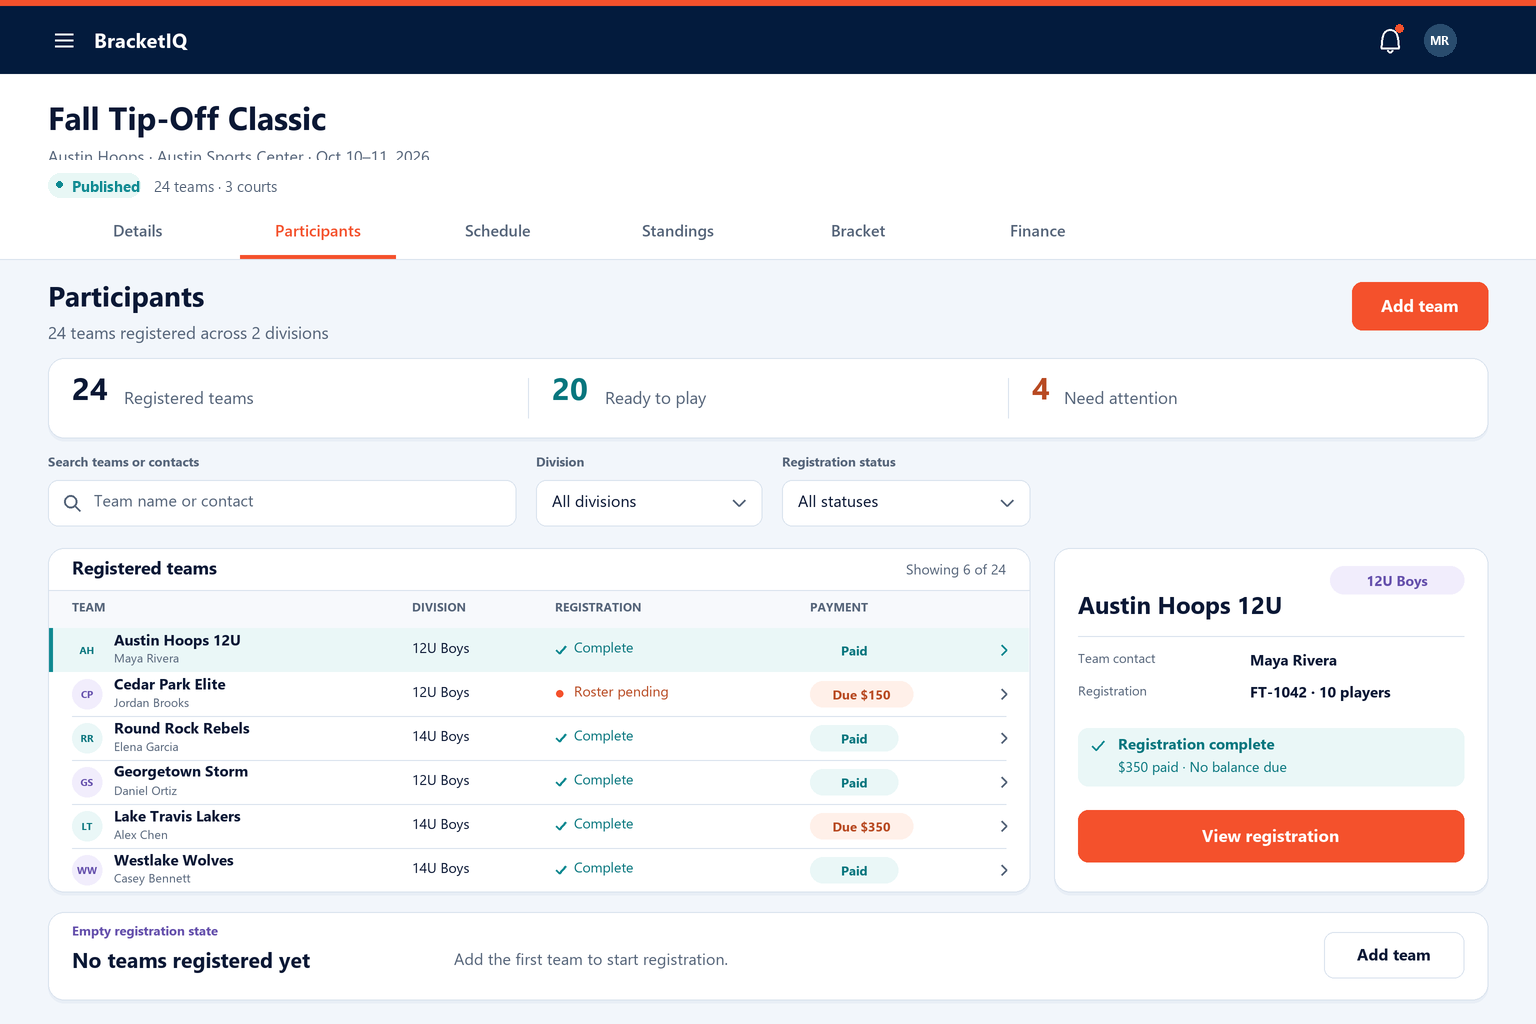
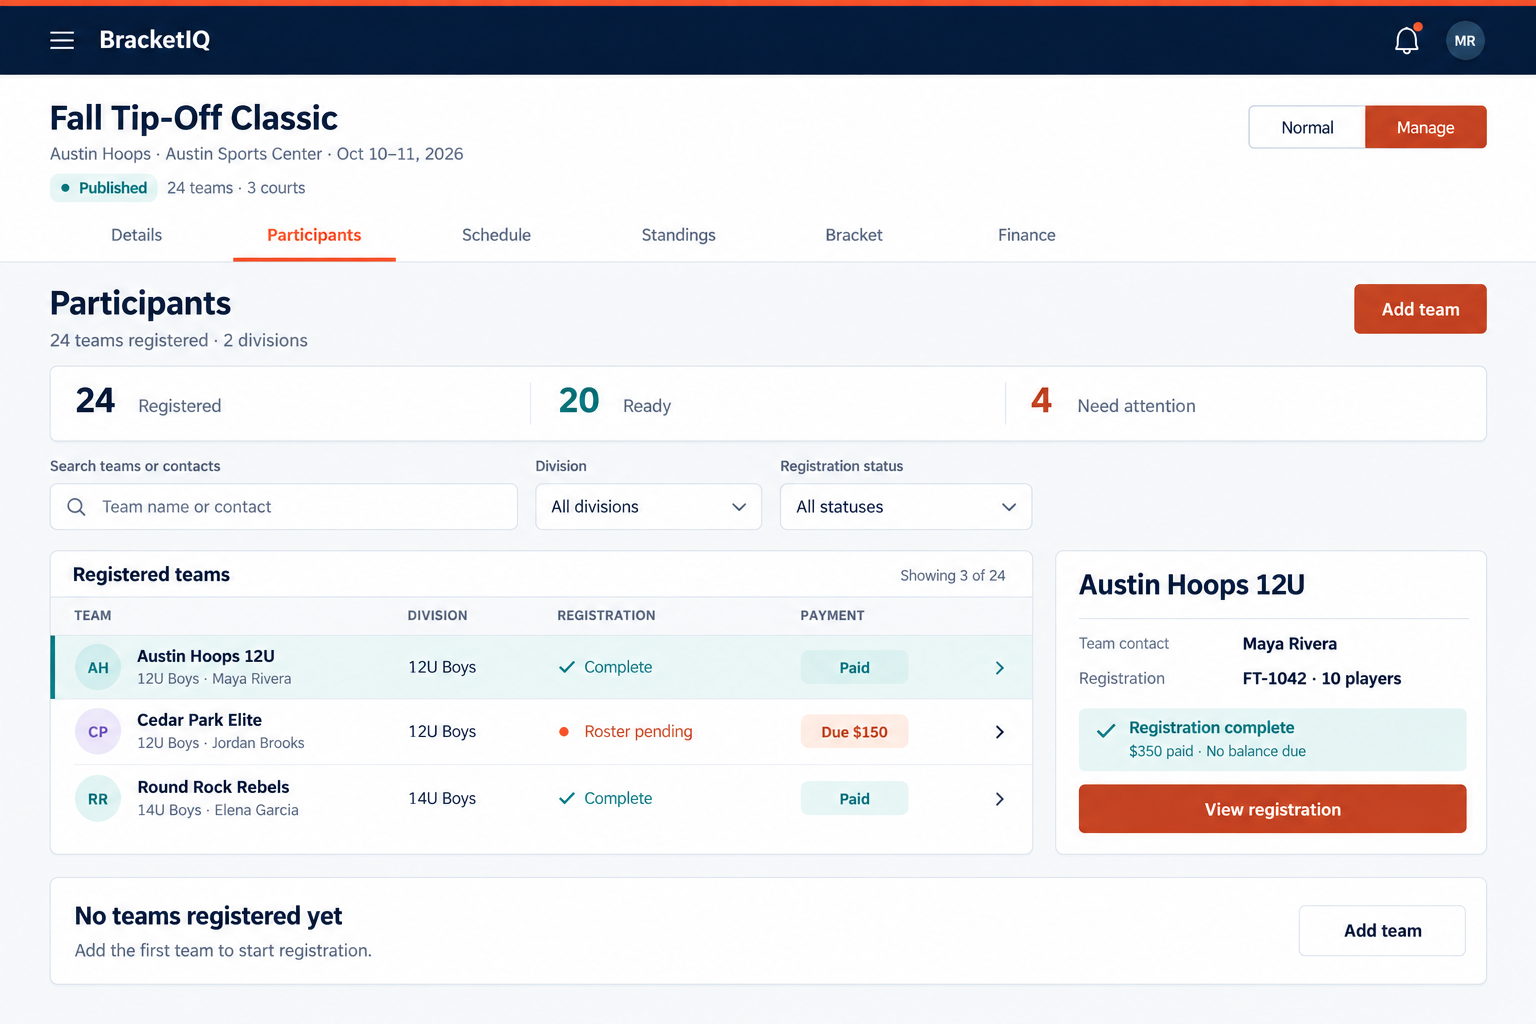
docs(site): record operations reference state policy

diff --git a/docs/images/site-ui/operations-workspace-drafts/issue-135/README.md b/docs/images/site-ui/operations-workspace-drafts/issue-135/README.md
@@ -1,0 +1,48 @@
+# Event operations reference drafts
+
+These 12 generated images replace the prior drafts for Issue #135.
+The desktop companions support Issue #125.
+The Finance and Participants views use the approved commerce style from Issue #126.
+Release-owner approval is pending.
+
+| Tab | Desktop: 1536 × 1024 | Mobile: 853 × 1844 |
+| --- | --- | --- |
+| Details | [Desktop](event-operations--details--desktop-1536x1024.png) | [Mobile](event-operations--details--mobile-853x1844.png) |
+| Participants | [Desktop](event-operations--participants--desktop-1536x1024.png) | [Mobile](event-operations--participants--mobile-853x1844.png) |
+| Schedule | [Desktop](event-operations--schedule--desktop-1536x1024.png) | [Mobile](event-operations--schedule--mobile-853x1844.png) |
+| Standings | [Desktop](event-operations--standings--desktop-1536x1024.png) | [Mobile](event-operations--standings--mobile-853x1844.png) |
+| Bracket | [Desktop](event-operations--bracket--desktop-1536x1024.png) | [Mobile](event-operations--bracket--mobile-853x1844.png) |
+| Finance | [Desktop](event-operations--finance--desktop-1536x1024.png) | [Mobile](event-operations--finance--mobile-853x1844.png) |
+
+## Design
+
+- Use the current `--bq-radius: 0.5rem` token for rectangular controls and surfaces.
+- Use the BracketIQ navy, orange, and teal palette.
+- Use round shapes only for avatars and circular indicators.
+- Keep each label clear of its control border.
+- Keep table values and score values aligned.
+- Wrap the six mobile tabs into two rows.
+- Treat `Manage` and `Normal` as visibility modes of one shared surface. Hide host-only controls and operational details in `Normal`; show them in `Manage` when permission allows.
+- Most references capture `Manage`. Bracket captures `Normal` as the clean read-only example. Do not generate a second image only to represent hidden controls.
+- Keep available drop targets distinct from unavailable Resource ranges.
+- Do not add eyebrow text above a page or entity name.
+
+The empty registration card and the Schedule state rows show separate reference states.
+Loading, empty, error, conflict, and confirmation examples are visual state references, not live components.
+Render one current state from data, request outcome, and user action. Do not combine these states in the live application.
+
+## Generation and checks
+
+The built-in `image_gen.imagegen` tool generated all 12 replacements.
+No image received code-based text overlays or resizing.
+All files retain their existing names and dimensions.
+All saved file hashes match their generated source files.
+
+Each image received a visual review for text, alignment, and required content.
+These raster references guide implementation.
+Use the app's CSS tokens for exact dimensions and colors.
+These images describe the visual result. They do not define a fixed component inventory.
+No application tests are needed for this image-only change.
+
+See [generation-prompts.json](generation-prompts.json) for the complete prompt set.
+See [reference-manifest.json](reference-manifest.json) for coverage and approval status.
